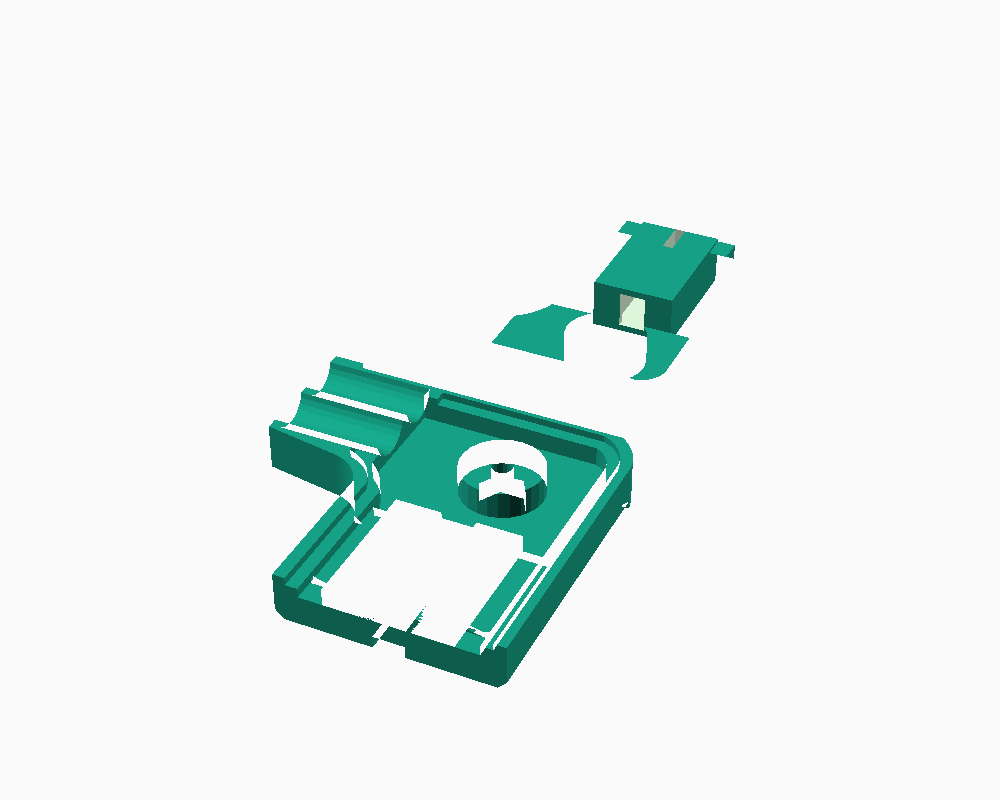
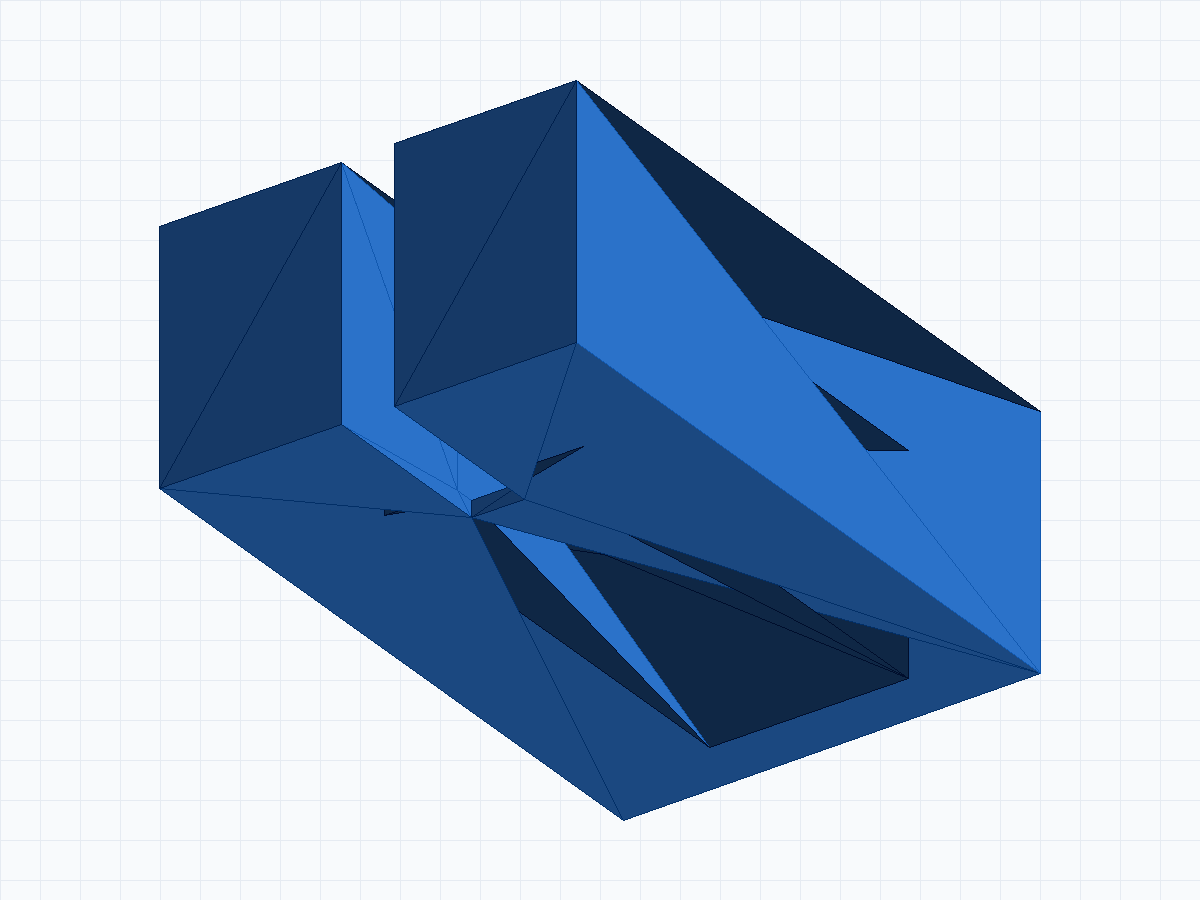
feat: replace renderer with custom high-contrast 3D software renderer for crisp PNG previews

diff --git a/render_stl_pillow.py b/render_stl_pillow.py
@@ -1,0 +1,171 @@
+import struct
+import math
+from PIL import Image, ImageDraw
+
+def load_stl(filename):
+    tris = []
+    with open(filename, "rb") as f:
+        header = f.read(80)
+        if header.startswith(b"solid") and not b"facet" in header[:20]:
+            # Could be ASCII or binary with solid header
+            pass
+        
+        # Try ASCII first
+        f.seek(0)
+        lines = f.readlines()
+        if lines[0].strip().startswith(b"solid") and any(b"facet" in l for l in lines[:10]):
+            # ASCII STL
+            norm = (0, 0, 1)
+            v1 = v2 = v3 = None
+            pts = []
+            for line in lines:
+                line_str = line.decode('utf-8', errors='ignore').strip()
+                if line_str.startswith("facet normal"):
+                    parts = line_str.split()
+                    norm = (float(parts[2]), float(parts[3]), float(parts[4]))
+                elif line_str.startswith("vertex"):
+                    parts = line_str.split()
+                    pts.append((float(parts[1]), float(parts[2]), float(parts[3])))
+                    if len(pts) == 3:
+                        tris.append((norm, pts[0], pts[1], pts[2]))
+                        pts = []
+            return tris
+
+    # Binary fallback
+    with open(filename, "rb") as f:
+        f.read(80)
+        n = struct.unpack("<I", f.read(4))[0]
+        for _ in range(n):
+            d = struct.unpack("<12fH", f.read(50))
+            norm = d[0:3]
+            v1, v2, v3 = d[3:6], d[6:9], d[9:12]
+            tris.append((norm, v1, v2, v3))
+    return tris
+
+def normalize(v):
+    l = math.sqrt(v[0]*v[0] + v[1]*v[1] + v[2]*v[2])
+    if l == 0: return (0, 0, 1)
+    return (v[0]/l, v[1]/l, v[2]/l)
+
+def cross(u, v):
+    return (
+        u[1]*v[2] - u[2]*v[1],
+        u[2]*v[0] - u[0]*v[2],
+        u[0]*v[1] - u[1]*v[0]
+    )
+
+def sub(u, v):
+    return (u[0]-v[0], u[1]-v[1], u[2]-v[2])
+
+def dot(u, v):
+    return u[0]*v[0] + u[1]*v[0]*0 + u[2]*v[2]
+
+def rotate_pt(pt, rot_x, rot_z):
+    x, y, z = pt
+    # rot Z
+    rad_z = math.radians(rot_z)
+    cz, sz = math.cos(rad_z), math.sin(rad_z)
+    rx = x * cz - y * sz
+    ry = x * sz + y * cz
+    rz = z
+    
+    # rot X
+    rad_x = math.radians(rot_x)
+    cx, sx = math.cos(rad_x), math.sin(rad_x)
+    fx = rx
+    fy = ry * cx - rz * sx
+    fz = ry * sx + rz * cx
+    return (fx, fy, fz)
+
+def render_mesh(stl_path, out_png, width=1200, height=900, rot_x=65, rot_z=45, base_color=(60, 140, 230)):
+    tris = load_stl(stl_path)
+    print(f"Loaded {len(tris)} triangles from {stl_path}")
+    
+    all_pts = []
+    for norm, v1, v2, v3 in tris:
+        all_pts.extend([v1, v2, v3])
+    
+    min_x = min(p[0] for p in all_pts)
+    max_x = max(p[0] for p in all_pts)
+    min_y = min(p[1] for p in all_pts)
+    max_y = max(p[1] for p in all_pts)
+    min_z = min(p[2] for p in all_pts)
+    max_z = max(p[2] for p in all_pts)
+    
+    cx = (min_x + max_x) / 2.0
+    cy = (min_y + max_y) / 2.0
+    cz = (min_z + max_z) / 2.0
+    
+    rot_tris = []
+    light_dir = normalize((0.6, 0.4, 0.8))
+    
+    transformed_pts = []
+    for norm, v1, v2, v3 in tris:
+        p1 = (v1[0]-cx, v1[1]-cy, v1[2]-cz)
+        p2 = (v2[0]-cx, v2[1]-cy, v2[2]-cz)
+        p3 = (v3[0]-cx, v3[1]-cy, v3[2]-cz)
+        
+        rp1 = rotate_pt(p1, rot_x, rot_z)
+        rp2 = rotate_pt(p2, rot_x, rot_z)
+        rp3 = rotate_pt(p3, rot_x, rot_z)
+        
+        transformed_pts.extend([rp1, rp2, rp3])
+        
+        u = sub(rp2, rp1)
+        v = sub(rp3, rp1)
+        fn = normalize(cross(u, v))
+        
+        avg_z = (rp1[2] + rp2[2] + rp3[2]) / 3.0
+        
+        # Diffuse + Specular
+        diff = max(0.0, dot(fn, light_dir))
+        intensity = 0.3 + 0.7 * diff
+        
+        r = int(min(255, max(0, base_color[0] * intensity)))
+        g = int(min(255, max(0, base_color[1] * intensity)))
+        b = int(min(255, max(0, base_color[2] * intensity)))
+        
+        rot_tris.append((avg_z, [rp1, rp2, rp3], (r, g, b)))
+        
+    rot_tris.sort(key=lambda t: t[0])
+    
+    min_rx = min(p[0] for p in transformed_pts)
+    max_rx = max(p[0] for p in transformed_pts)
+    min_ry = min(p[1] for p in transformed_pts)
+    max_ry = max(p[1] for p in transformed_pts)
+    
+    span_x = max_rx - min_rx
+    span_y = max_ry - min_ry
+    
+    scale = min((width - 160) / span_x, (height - 160) / span_y)
+    
+    img = Image.new("RGBA", (width, height), (248, 250, 252, 255))
+    draw = ImageDraw.Draw(img)
+    
+    # Grid lines
+    grid_color = (230, 235, 242, 255)
+    for gx in range(0, width, 40):
+        draw.line([(gx, 0), (gx, height)], fill=grid_color)
+    for gy in range(0, height, 40):
+        draw.line([(0, gy), (width, gy)], fill=grid_color)
+        
+    canvas_cx = width / 2.0
+    canvas_cy = height / 2.0
+    
+    for avg_z, pts, color in rot_tris:
+        poly_2d = []
+        for pt in pts:
+            sx = canvas_cx + pt[0] * scale
+            sy = canvas_cy - pt[1] * scale
+            poly_2d.append((sx, sy))
+            
+        outline_c = (max(0, color[0]-25), max(0, color[1]-25), max(0, color[2]-25))
+        draw.polygon(poly_2d, fill=color, outline=outline_c)
+        
+    img.save(out_png, "PNG")
+    print(f"Rendered 3D image saved to {out_png}")
+
+# Render both STL files and original reference STL
+render_mesh("stls/exports/elna_plug_modified_bottom.stl", "renders/preview_modified.png", rot_x=60, rot_z=35, base_color=(50, 130, 230))
+render_mesh("stls/exports/elna_plug_modified_top.stl", "renders/preview_top.png", rot_x=60, rot_z=215, base_color=(40, 170, 110))
+render_mesh("references/original_zip/files/ELNA_SUPERMATIC_PLUG.stl", "renders/preview_both.png", rot_x=60, rot_z=35, base_color=(220, 120, 50))